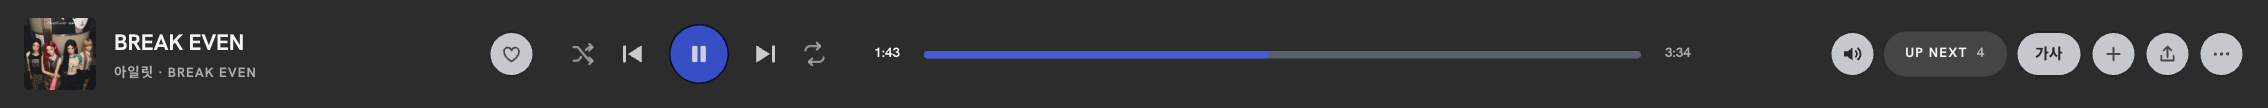
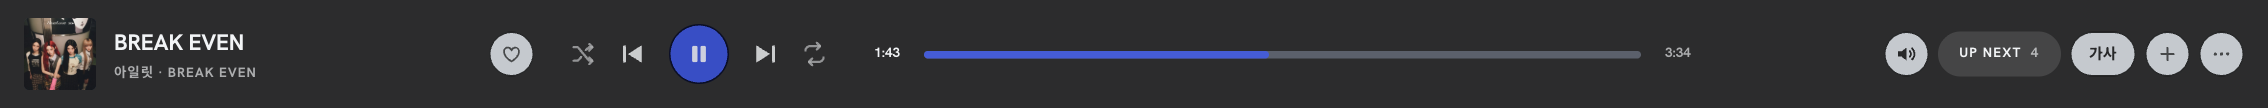
재생 바: 동작하지 않던 공유 버튼과 아이콘 삭제, 이용 안내 문구·캡처 정리

Changed region(s): [[0.8025, 0.2778, 0.9568, 0.7222]]

diff --git a/components/manual/content.ts b/components/manual/content.ts
@@ -198,7 +198,7 @@ export const MANUAL: ManualSection[] = [
     title: "재생 바",
     lead: "화면 맨 아래의 재생 바는 어느 화면에서나 같은 자리에서 지금 듣는 곡을 조작합니다.",
     blocks: [
-      { kind: "shot", src: "/manual/player.png", alt: "재생 바", caption: "왼쪽부터 지금 곡과 좋아요, 재생 조작, 진행 막대, UP NEXT · 가사 · 담기 · 공유 · 더보기", ratio: 21.0 },
+      { kind: "shot", src: "/manual/player.png", alt: "재생 바", caption: "왼쪽부터 지금 곡과 좋아요, 재생 조작, 진행 막대, UP NEXT · 가사 · 담기 · 더보기", ratio: 21.0 },
       {
         kind: "table",
         head: ["버튼", "하는 일"],

diff --git a/components/now-playing-panel.tsx b/components/now-playing-panel.tsx
@@ -567,7 +567,6 @@ export function NowPlayingPanel() {
             setAdding(true);
           }}
         />
-        <RoundButton name="share" label="공유" size={30} icon={14} />
         <span data-popover-toggle className="flex shrink-0">
           <RoundButton
             name="more"
